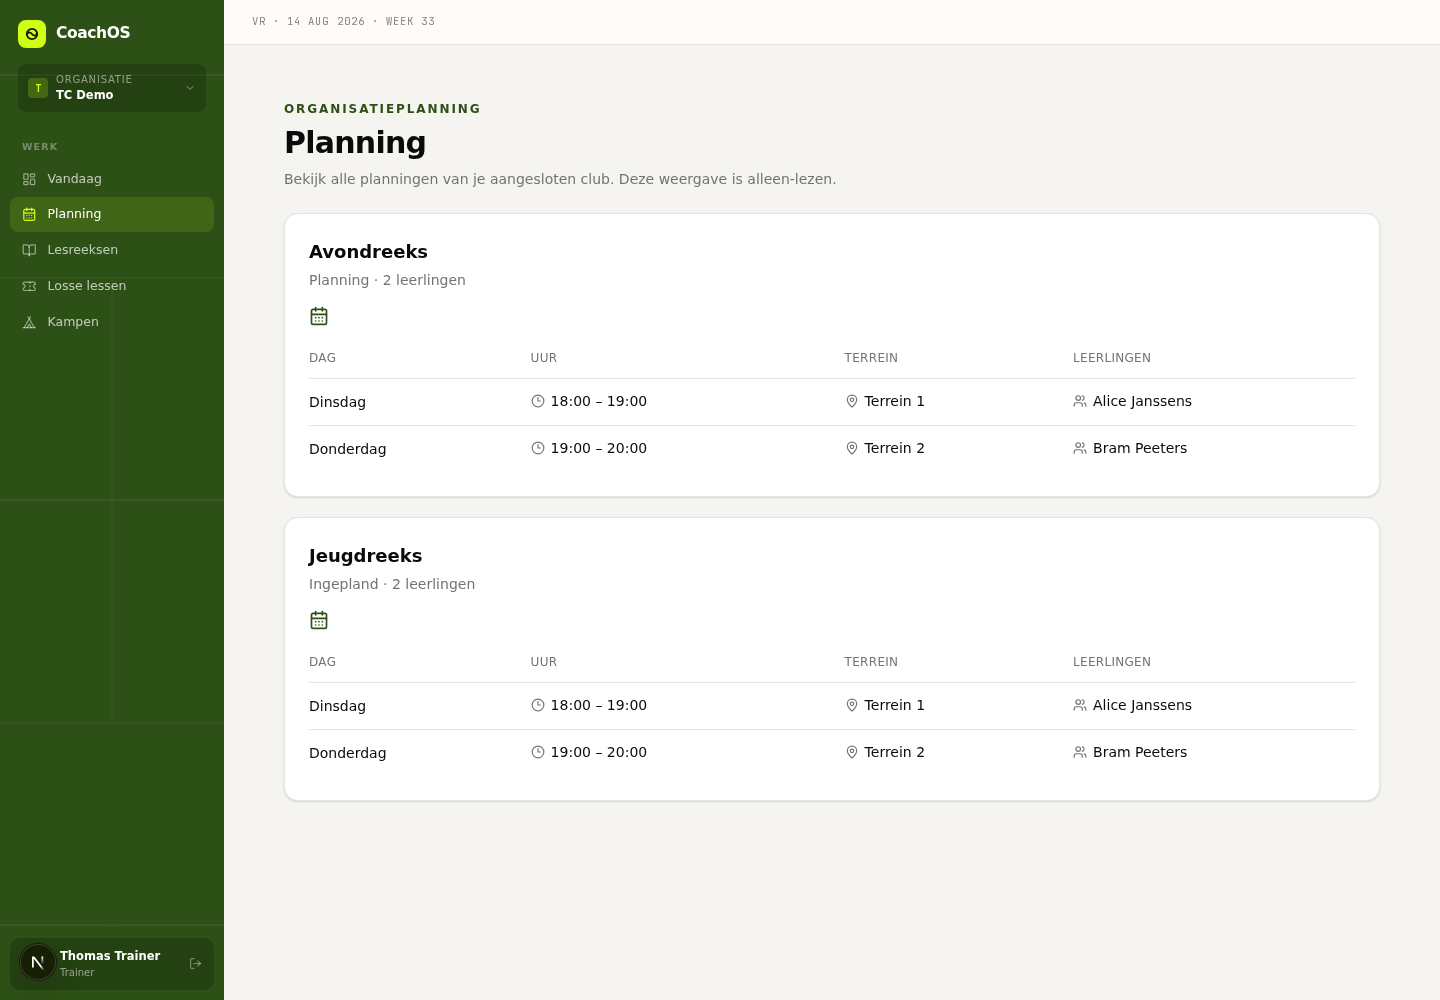
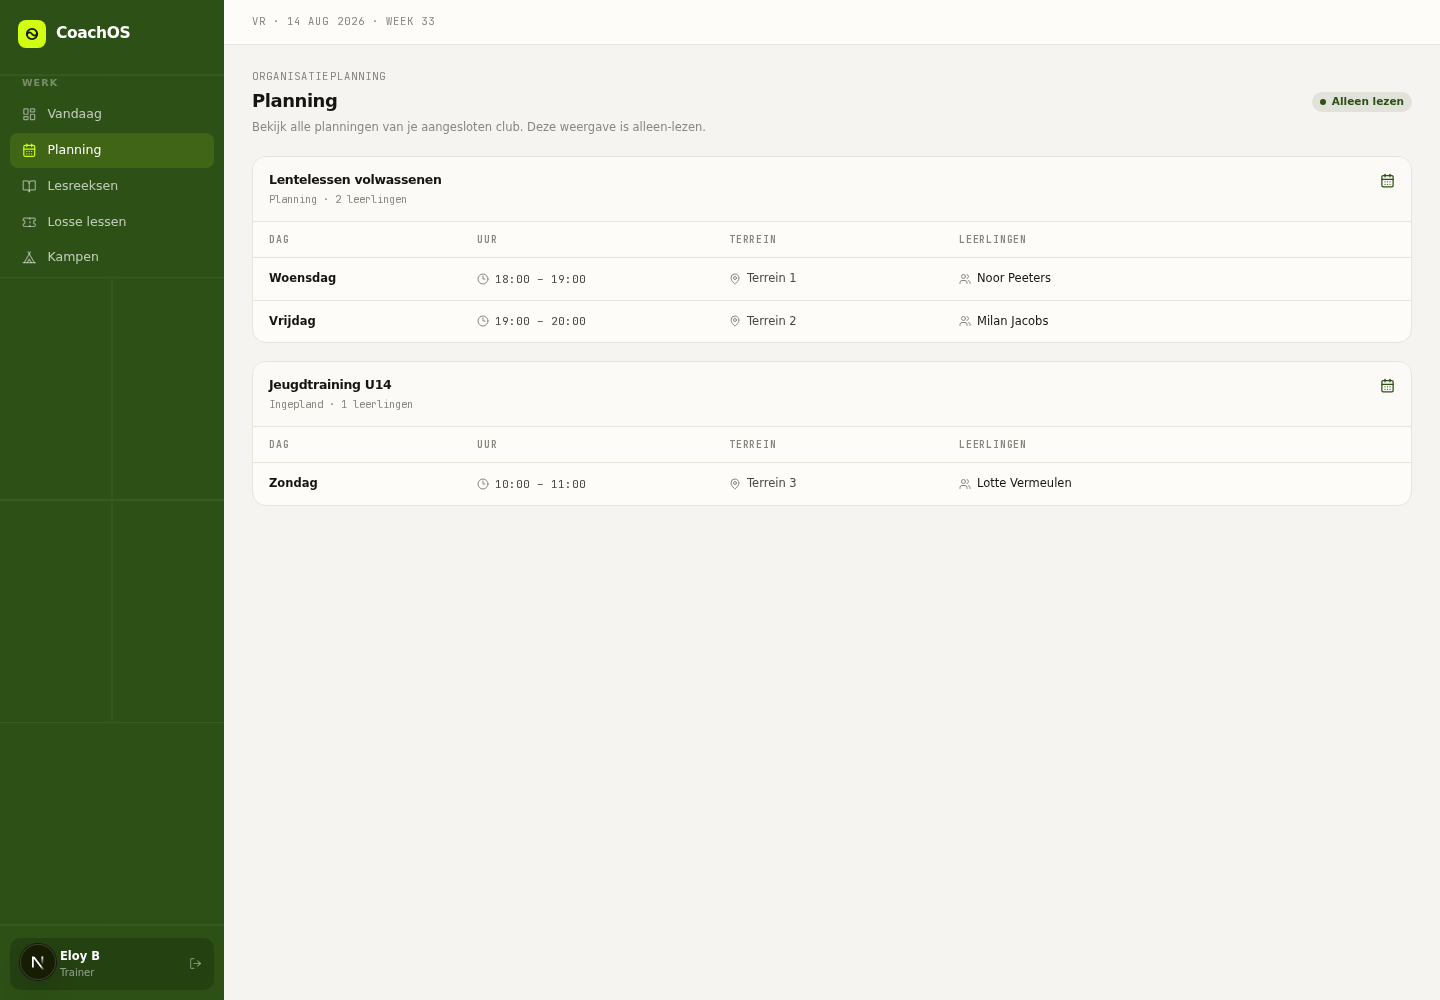
fix: align trainer planning with dashboard style

diff --git a/frontend/app/(dashboard)/dashboard/planning/page.tsx b/frontend/app/(dashboard)/dashboard/planning/page.tsx
@@ -4,7 +4,8 @@ import { useMemo } from "react";
 import { useQuery } from "@tanstack/react-query";
 import { CalendarDays, Clock3, MapPin, Users } from "lucide-react";
 import { useTranslations } from "next-intl";
-import { Card, CardContent, CardHeader, CardTitle } from "@/components/ui/card";
+import { Mono } from "@/components/ui/mono";
+import { SlashLabel } from "@/components/ui/slash-label";
 import {
   getTrainerPlanning,
   type PlanningAssignmentDto,
@@ -64,73 +65,65 @@ function SeriesPlanning({ planning, t }: { planning: TrainerPlanningDto; t: (key
   );
 
   return (
-    <Card>
-      <CardHeader className="flex-row items-start justify-between gap-4 space-y-0">
+    <section className="bg-paper border border-rule rounded-xl overflow-hidden">
+      <div className="flex items-start justify-between gap-4 px-4 py-3.5 border-b border-rule bg-[#fbfaf6]">
         <div>
-          <CardTitle className="text-lg">{planning.lessonSerieName}</CardTitle>
-          <p className="mt-1 text-sm text-muted-foreground">
+          <h2 className="text-[12.5px] font-bold text-ink tracking-tight">{planning.lessonSerieName}</h2>
+          <Mono className="text-[10.5px] text-ink-3 mt-0.5 block">
             {getStatusLabel(planning.planningStatus, t)} · {planning.enrollments.length} {t("students")}
-          </p>
+          </Mono>
         </div>
-        <CalendarDays className="h-5 w-5 text-tennis-green" aria-hidden="true" />
-      </CardHeader>
-      <CardContent>
-        {slotRows.length === 0 ? (
-          <p className="text-sm text-muted-foreground">{t("noSlots")}</p>
-        ) : (
-          <div className="overflow-x-auto">
-            <table className="w-full min-w-[620px] text-sm">
-              <thead>
-                <tr className="border-b text-left text-xs uppercase tracking-wide text-muted-foreground">
-                  <th className="pb-3 pr-4 font-medium">{t("day")}</th>
-                  <th className="pb-3 pr-4 font-medium">{t("time")}</th>
-                  <th className="pb-3 pr-4 font-medium">{t("court")}</th>
-                  <th className="pb-3 font-medium">{t("studentsColumn")}</th>
-                </tr>
-              </thead>
-              <tbody>
-                {slotRows.map((slot) => {
-                  const students = (assignmentsBySlot.get(slot.id) ?? [])
-                    .flatMap((assignment) => getStudentsForAssignment(assignment, planning));
+        <CalendarDays size={15} className="text-tennis-green mt-0.5" aria-hidden="true" />
+      </div>
 
-                  return (
-                    <tr key={slot.id} className="border-b last:border-0">
-                      <td className="py-3 pr-4 font-medium">{t(`day${slot.dayOfWeek}`)}</td>
-                      <td className="whitespace-nowrap py-3 pr-4">
-                        <span className="inline-flex items-center gap-1.5">
-                          <Clock3 className="h-3.5 w-3.5 text-muted-foreground" aria-hidden="true" />
-                          {slot.startTime} – {slot.endTime}
-                        </span>
-                      </td>
-                      <td className="py-3 pr-4">
-                        {slot.courtName ? (
-                          <span className="inline-flex items-center gap-1.5">
-                            <MapPin className="h-3.5 w-3.5 text-muted-foreground" aria-hidden="true" />
-                            {slot.courtName}
-                          </span>
-                        ) : (
-                          <span className="text-muted-foreground">{t("noCourt")}</span>
-                        )}
-                      </td>
-                      <td className="py-3">
-                        {students.length > 0 ? (
-                          <span className="inline-flex items-center gap-1.5">
-                            <Users className="h-3.5 w-3.5 text-muted-foreground" aria-hidden="true" />
-                            {students.join(", ")}
-                          </span>
-                        ) : (
-                          <span className="text-muted-foreground">{t("noStudents")}</span>
-                        )}
-                      </td>
-                    </tr>
-                  );
-                })}
-              </tbody>
-            </table>
+      {slotRows.length === 0 ? (
+        <p className="px-4 py-5 text-[12px] text-ink-3">{t("noSlots")}</p>
+      ) : (
+        <div className="overflow-x-auto">
+          <div className="min-w-[620px]">
+            <div className="grid grid-cols-[.9fr_1.1fr_1fr_2fr] gap-3 px-4 py-2.5 text-[10px] text-ink-3 font-semibold font-mono uppercase tracking-[0.08em] border-b border-rule">
+              <span>{t("day")}</span>
+              <span>{t("time")}</span>
+              <span>{t("court")}</span>
+              <span>{t("studentsColumn")}</span>
+            </div>
+            {slotRows.map((slot) => {
+              const students = (assignmentsBySlot.get(slot.id) ?? [])
+                .flatMap((assignment) => getStudentsForAssignment(assignment, planning));
+
+              return (
+                <div
+                  key={slot.id}
+                  className="grid grid-cols-[.9fr_1.1fr_1fr_2fr] gap-3 px-4 py-3 items-center border-b border-rule last:border-b-0 text-[11.5px] hover:bg-canvas/50 transition-colors"
+                >
+                  <span className="font-semibold text-ink">{t(`day${slot.dayOfWeek}`)}</span>
+                  <Mono className="inline-flex items-center gap-1.5 text-ink-2 text-[11px]">
+                    <Clock3 size={12} className="text-ink-3" aria-hidden="true" />
+                    {slot.startTime} – {slot.endTime}
+                  </Mono>
+                  {slot.courtName ? (
+                    <span className="inline-flex items-center gap-1.5 text-ink-2">
+                      <MapPin size={12} className="text-ink-3" aria-hidden="true" />
+                      {slot.courtName}
+                    </span>
+                  ) : (
+                    <span className="text-ink-3">{t("noCourt")}</span>
+                  )}
+                  {students.length > 0 ? (
+                    <span className="inline-flex items-center gap-1.5 text-ink">
+                      <Users size={12} className="text-ink-3 shrink-0" aria-hidden="true" />
+                      <span className="truncate">{students.join(", ")}</span>
+                    </span>
+                  ) : (
+                    <span className="text-ink-3">{t("noStudents")}</span>
+                  )}
+                </div>
+              );
+            })}
           </div>
-        )}
-      </CardContent>
-    </Card>
+        </div>
+      )}
+    </section>
   );
 }
 
@@ -142,27 +135,46 @@ export default function PlanningOverviewPage() {
   });
 
   return (
-    <main className="space-y-6 p-6 pb-24 lg:p-8">
-      <header>
-        <p className="text-xs font-semibold uppercase tracking-[0.16em] text-tennis-green">{t("eyebrow")}</p>
-        <h1 className="mt-2 text-3xl font-semibold tracking-tight">{t("title")}</h1>
-        <p className="mt-2 max-w-2xl text-sm text-muted-foreground">{t("description")}</p>
-      </header>
+    <>
+      <div className="flex items-center justify-between mb-5">
+        <div>
+          <SlashLabel>{t("eyebrow")}</SlashLabel>
+          <h1 className="text-lg font-bold text-ink tracking-tight mt-0.5">{t("title")}</h1>
+          <p className="text-[11.5px] text-ink-3 mt-1 max-w-2xl">{t("description")}</p>
+        </div>
+        <span className="hidden sm:inline-flex items-center gap-1.5 text-[10.5px] px-2 py-0.5 rounded-full bg-tennis-green/10 text-tennis-green font-semibold">
+          <span className="w-1.5 h-1.5 rounded-full bg-tennis-green" aria-hidden="true" />
+          {t("readOnly")}
+        </span>
+      </div>
 
-      {isLoading && <p className="text-sm text-muted-foreground">{t("loading")}</p>}
-      {isError && <p className="text-sm text-destructive">{t("error")}</p>}
+      {isLoading && (
+        <div className="bg-paper border border-rule rounded-xl overflow-hidden animate-pulse">
+          <div className="h-11 bg-canvas border-b border-rule" />
+          {[1, 2, 3].map((i) => (
+            <div key={i} className="h-12 border-b border-rule" />
+          ))}
+        </div>
+      )}
+      {isError && (
+        <div className="bg-red-50 border border-red-100 rounded-xl p-4 text-[12px] text-red-600">{t("error")}</div>
+      )}
       {!isLoading && !isError && plannings.length === 0 && (
-        <Card>
-          <CardContent className="py-10 text-center text-sm text-muted-foreground">{t("empty")}</CardContent>
-        </Card>
+        <div className="flex flex-col items-center justify-center py-20 px-6 text-center">
+          <div className="w-16 h-16 rounded-full bg-tennis-green/[.08] flex items-center justify-center mb-5">
+            <CalendarDays className="w-8 h-8 text-tennis-green" aria-hidden="true" />
+          </div>
+          <p className="text-ink font-semibold text-sm mb-1">{t("empty")}</p>
+          <p className="text-ink-3 text-[12px] max-w-64 leading-relaxed">{t("emptyDescription")}</p>
+        </div>
       )}
       {!isLoading && !isError && plannings.length > 0 && (
-        <div className="space-y-5">
+        <div className="space-y-[18px]">
           {plannings.map((planning) => (
             <SeriesPlanning key={planning.lessonSerieId} planning={planning} t={t} />
           ))}
         </div>
       )}
-    </main>
+    </>
   );
 }
